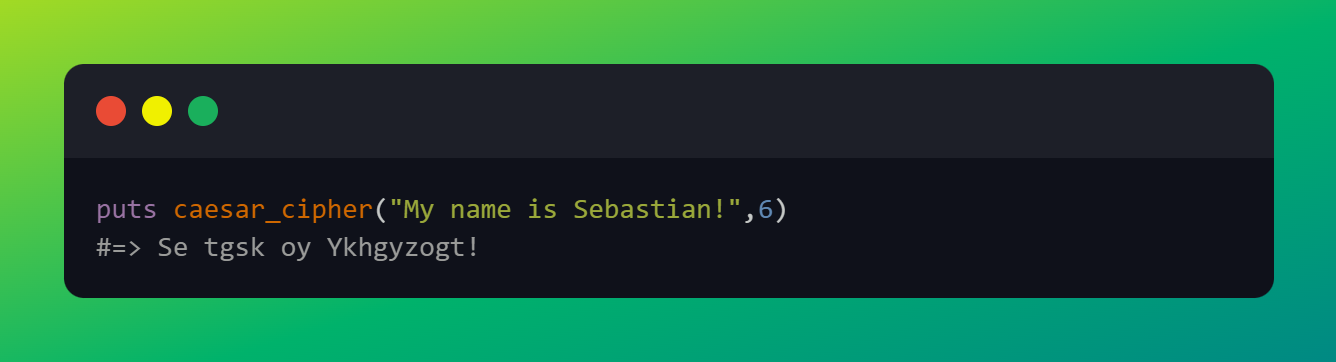
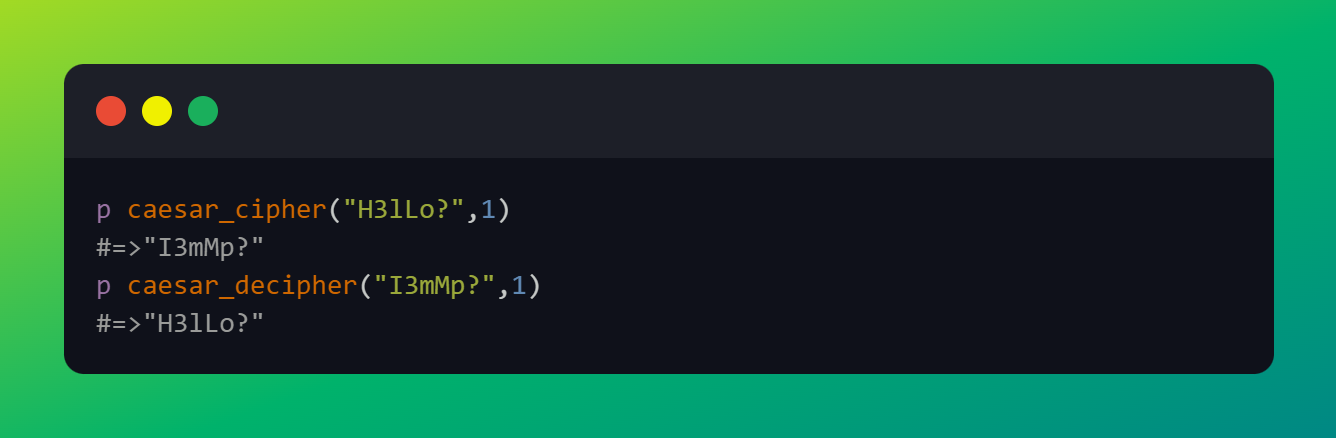
Change image result and p examples

diff --git a/caesar_cipher.rb b/caesar_cipher.rb
@@ -36,5 +36,7 @@ def caesar_decipher (plaintext, key)
   result.to_s
   end
 
-p caesar_cipher("CIAO",1)
-p caesar_decipher("DJBP",1)
+p caesar_cipher("H3lLo?",1)
+#=>"I3mMp?"
+p caesar_decipher("I3mMp?",1)
+#=>"H3lLo?"
